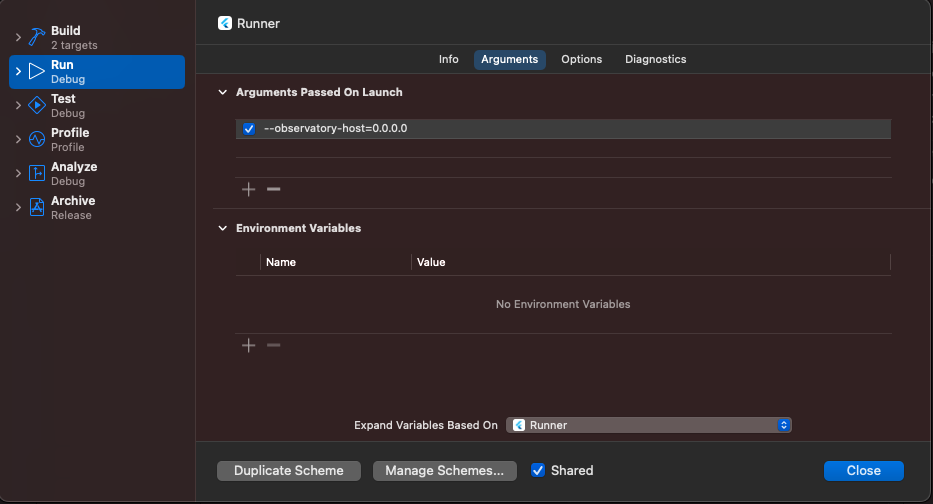
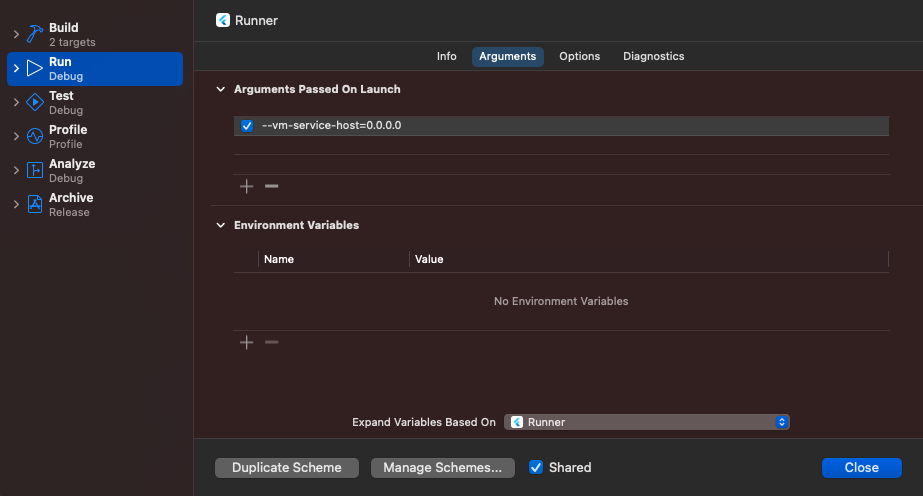
Add android, update flag, add info on IPv6

diff --git a/src/development/add-to-app/debugging.md b/src/development/add-to-app/debugging.md
@@ -63,22 +63,49 @@ Select the device on which the Flutter module runs so `flutter attach` filters f
 
 [debugging functionalities]: {{site.url}}/testing/debugging
 
-### Wireless Debugging
+### Wireless debugging
+
+#### iOS
 
 You can debug your app wirelessly on an iOS device 
 using `flutter attach`: 
 
-1. Ensure that your device is wirelessly connected to Xcode 
-as described in the [MacOS installation guide][].
-1. Open **Xcode > Product > Scheme > Edit Scheme**
-1. Select the **Arguments** tab 
-1. Add either `--observatory-host=0.0.0.0` for IPv4, 
-or `--observatory-host=::0` for IPv6 as launch argument
-<!-- TO DO: add info on wifi networks -->
+<ol markdown="1">
+<li markdown="1">
+
+Ensure that your device is wirelessly connected to Xcode 
+as described in the [iOS setup guide][].
+
+</li>
+<li markdown="1">
+
+Open **Xcode > Product > Scheme > Edit Scheme**
+
+</li>
+<li markdown="1">
+
+Select the **Arguments** tab 
+
+</li>
+<li markdown="1">
+
+Add either `--vm-service-host=0.0.0.0` for IPv4, 
+or `--vm-service-host=::0` for IPv6 as a launch argument
+
+You can determine if you're on an IPv6 network by opening your Mac's 
+**Settings > Wi-Fi > Details (of the network you're connected to) > TCP/IP** 
+and check to see if there is an **IPv6 address** section.
 
 ![Wireless Port][]{:.mw-100}
 
+</li>
+</ol>
 
+#### Android
 
-[MacOS installation guide]: {{site.url}}/get-started/install/macos#deploy-to-ios-devices
+Ensure that your device is wirelessly connected to Android Studio 
+as described in the [Android setup guide][].
+
+[iOS setup guide]: {{site.url}}/get-started/install/macos#deploy-to-ios-devices
+[Android setup guide]: {{site.url}}/get-started/install/macos#set-up-your-android-device
 [Wireless Port]: {{site.url}}/assets/images/docs/development/add-to-app/debugging/wireless-port.png

diff --git a/src/get-started/install/_ios-setup.md b/src/get-started/install/_ios-setup.md
@@ -91,7 +91,7 @@ you will also need the third-party CocoaPods dependency manager.
 To set up physical device deployment in Xcode, 
 connect your device to the USB port on your 
 computer. 
-
+</li>
 <li markdown="1">
 <a name="wireless"></a>
 [Optional] To leverage wireless debugging, ensure that 
@@ -108,13 +108,13 @@ you can unplug your device from USB.
 
 Sometimes it takes longer to find network devices. 
 If you don't see your device listed when using `flutter run`, 
-try extending the timeout: `flutter run --device-timeout 5`.
+try extending the timeout: `flutter run --device-timeout 10`.
 
 For additional help troubleshooting, 
 check out [Apple's Developer Forums][]. For setting up 
 wireless debugging with `flutter attach`, 
 checkout [Debugging your add-to-app module][].
-
+</li>
 <li markdown="1">
 
 <a name="trust"></a>

diff --git a/src/get-started/install/_android-setup.md b/src/get-started/install/_android-setup.md
@@ -26,6 +26,9 @@ you need an Android device running Android 4.1 (API level 16) or higher.
  1. Enable **Developer options** and **USB debugging** on your device.
     Detailed instructions are available in the
     [Android documentation]({{site.android-dev}}/studio/debug/dev-options).
+ 1. [Optional] To leverage wireless debugging, enable **Wireless debugging** 
+    on your device. Detailed instructions are available in the 
+    [Android documentation]({{site.android-dev}}/studio/run/device#wireless).
  1. Windows-only: Install the [Google USB
     Driver]({{site.android-dev}}/studio/run/win-usb).
  1. Using a USB cable, plug your phone into your computer. If prompted on your
